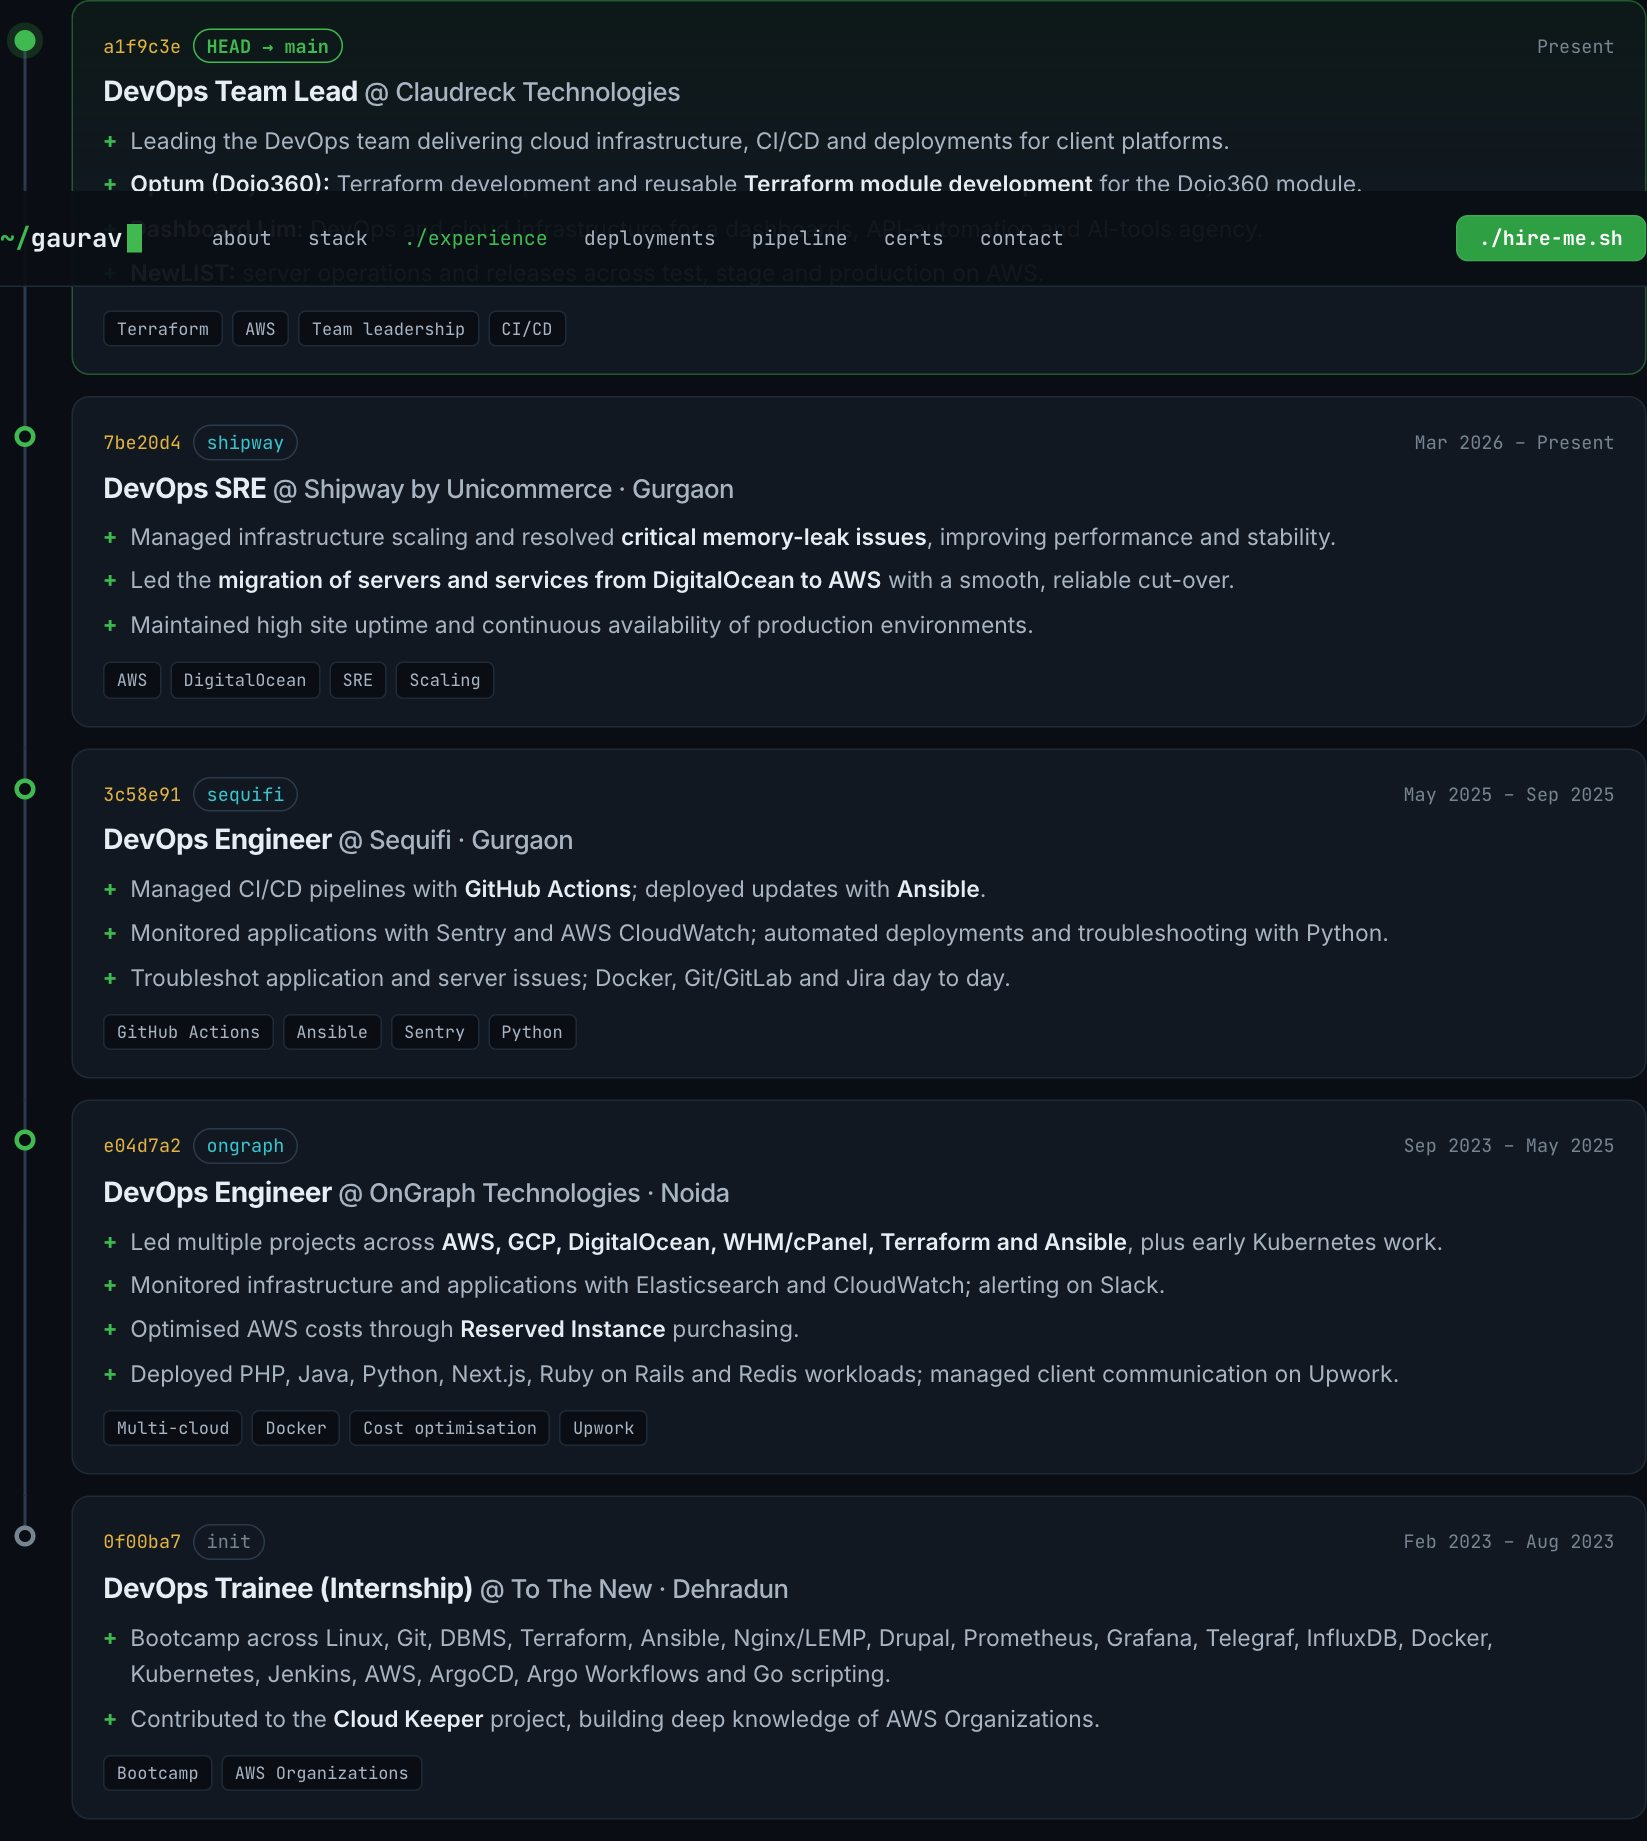
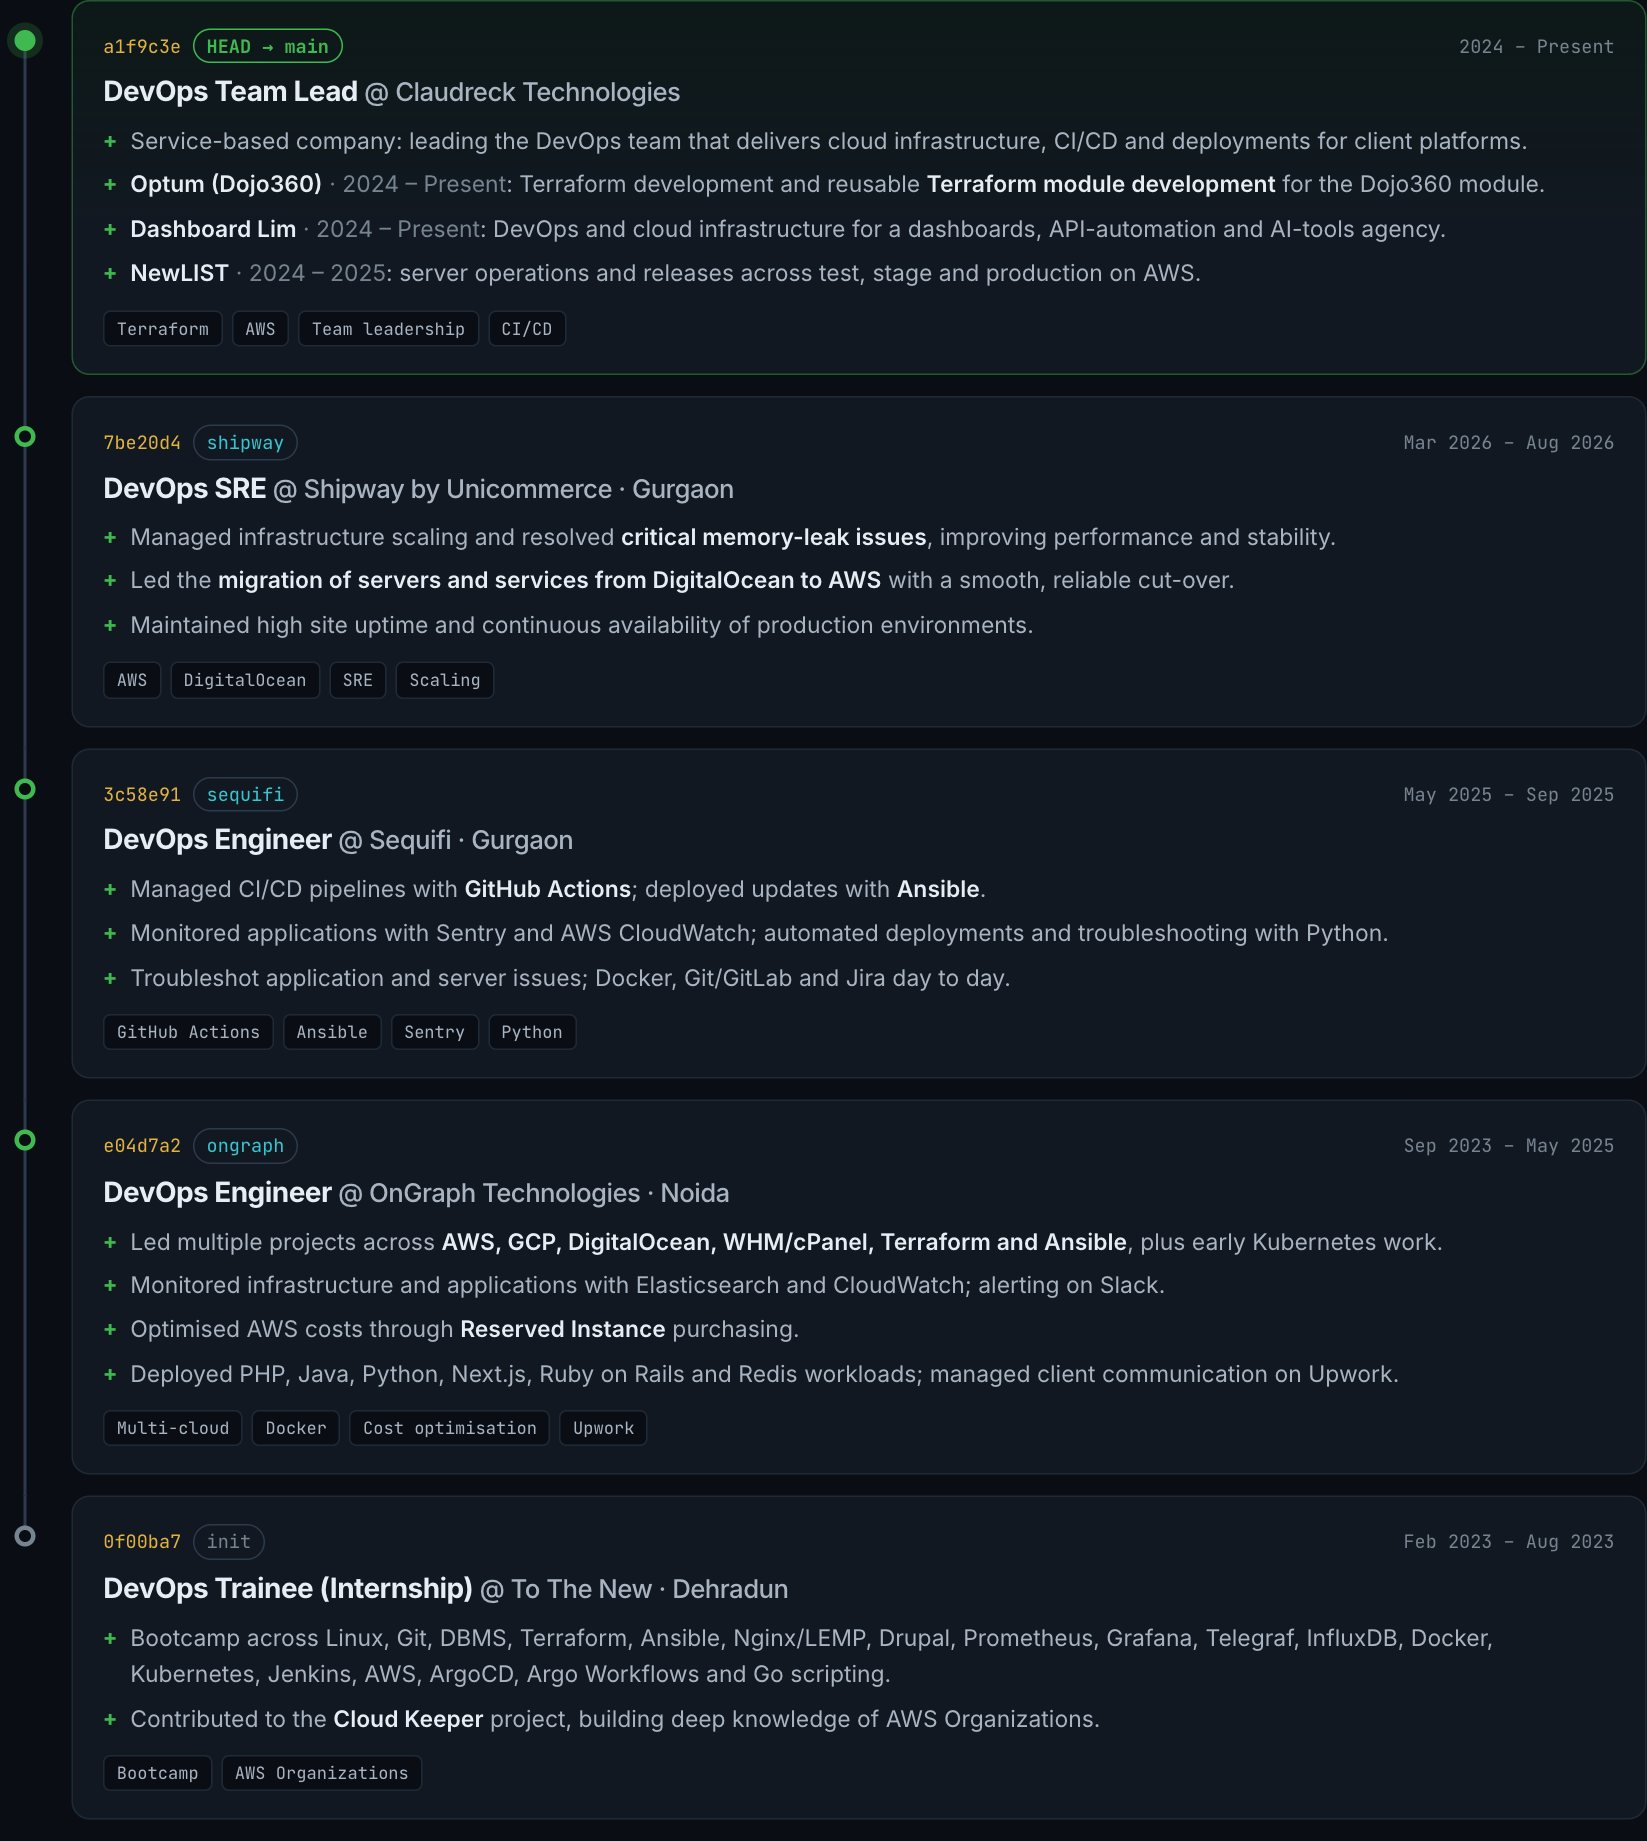
Update timeline: Shipway Mar-Aug 2026, Claudreck 2024-present
- Claudreck Technologies (service-based) 2024 - Present: Optum Dojo360
  and Dashboard Lim 2024 - Present, NewLIST 2024 - 2025
- Shipway by Unicommerce ends Aug 2026
- Terminal, deployment cards, README and screenshots updated

Changed region(s): [[0.0, 0.0619, 1.0, 0.1548], [0.929, 0.2167, 0.9599, 0.2477]]

diff --git a/index.html b/index.html
@@ -200,13 +200,13 @@
           <li class="commit commit--head reveal">
             <div class="commit__rail" aria-hidden="true"><span class="commit__dot"></span></div>
             <div class="commit__card">
-              <p class="commit__meta"><span class="sha">a1f9c3e</span> <span class="ref ref--head">HEAD → main</span> <span class="when">Present</span></p>
+              <p class="commit__meta"><span class="sha">a1f9c3e</span> <span class="ref ref--head">HEAD → main</span> <span class="when">2024 – Present</span></p>
               <h3>DevOps Team Lead <span class="at">@ Claudreck Technologies</span></h3>
               <ul>
-                <li>Leading the DevOps team delivering cloud infrastructure, CI/CD and deployments for client platforms.</li>
-                <li><strong>Optum (Dojo360):</strong> Terraform development and reusable <strong>Terraform module development</strong> for the Dojo360 module.</li>
-                <li><strong>Dashboard Lim:</strong> DevOps and cloud infrastructure for a dashboards, API-automation and AI-tools agency.</li>
-                <li><strong>NewLIST:</strong> server operations and releases across test, stage and production on AWS.</li>
+                <li>Service-based company: leading the DevOps team that delivers cloud infrastructure, CI/CD and deployments for client platforms.</li>
+                <li><strong>Optum (Dojo360)</strong> <span class="dim">· 2024 – Present</span>: Terraform development and reusable <strong>Terraform module development</strong> for the Dojo360 module.</li>
+                <li><strong>Dashboard Lim</strong> <span class="dim">· 2024 – Present</span>: DevOps and cloud infrastructure for a dashboards, API-automation and AI-tools agency.</li>
+                <li><strong>NewLIST</strong> <span class="dim">· 2024 – 2025</span>: server operations and releases across test, stage and production on AWS.</li>
               </ul>
               <p class="tags"><span>Terraform</span><span>AWS</span><span>Team leadership</span><span>CI/CD</span></p>
             </div>
@@ -214,7 +214,7 @@
           <li class="commit reveal">
             <div class="commit__rail" aria-hidden="true"><span class="commit__dot"></span></div>
             <div class="commit__card">
-              <p class="commit__meta"><span class="sha">7be20d4</span> <span class="ref">shipway</span> <span class="when">Mar 2026 – Present</span></p>
+              <p class="commit__meta"><span class="sha">7be20d4</span> <span class="ref">shipway</span> <span class="when">Mar 2026 – Aug 2026</span></p>
               <h3>DevOps SRE <span class="at">@ Shipway by Unicommerce · Gurgaon</span></h3>
               <ul>
                 <li>Managed infrastructure scaling and resolved <strong>critical memory-leak issues</strong>, improving performance and stability.</li>
@@ -300,16 +300,16 @@ modules/
 └── <span class="k">guardrails</span>/          <span class="c"># policies &amp; defaults</span>
 <span class="p">$</span> terraform plan <span class="ok">✓ no drift</span></code></pre>
             <p class="tags"><span>Terraform</span><span>Modules</span><span>IaC</span><span>Cloud governance</span></p>
-            <p class="dep__via">via Claudreck Technologies</p>
+            <p class="dep__via">via Claudreck Technologies · 2024 – Present</p>
           </article>
 
           <article class="dep reveal" data-tags="aws">
-            <header class="dep__head"><span class="pill pill--ok">● Running</span><span class="dep__ns">ns/newlist</span></header>
+            <header class="dep__head"><span class="pill pill--done">✓ Delivered</span><span class="dep__ns">ns/newlist</span></header>
             <h3>NewLIST</h3>
             <p class="dep__link"><a href="http://www.newlist.com" target="_blank" rel="noopener">newlist.com ↗</a></p>
             <p>Server operations and deployments across <strong>test, stage and production</strong>. Rolled out <strong>Amazon Inspector</strong> and fixed critical findings, and enabled CloudWatch monitoring on every environment.</p>
             <p class="tags"><span>Elastic Beanstalk</span><span>CodePipeline</span><span>WAF</span><span>CloudFront</span><span>RDS</span><span>Inspector</span></p>
-            <p class="dep__via">via Claudreck Technologies</p>
+            <p class="dep__via">via Claudreck Technologies · 2024 – 2025</p>
           </article>
 
           <article class="dep reveal" data-tags="aws">
@@ -318,7 +318,7 @@ modules/
             <p class="dep__link"><a href="https://dashboard-lim.com" target="_blank" rel="noopener">dashboard-lim.com ↗</a></p>
             <p>DevOps and cloud infrastructure for a boutique agency that builds <strong>business dashboards, API automations and AI tools</strong> for agencies and service brands.</p>
             <p class="tags"><span>Cloud infra</span><span>Deployments</span><span>Automation</span></p>
-            <p class="dep__via">via Claudreck Technologies</p>
+            <p class="dep__via">via Claudreck Technologies · 2024 – Present</p>
           </article>
 
           <article class="dep reveal" data-tags="migration aws">
@@ -327,6 +327,7 @@ modules/
             <p class="dep__link">Shipway by Unicommerce</p>
             <p>Led the move of servers and services from <strong>DigitalOcean to AWS</strong>, scaled infrastructure and resolved critical <strong>memory leaks</strong> to keep production stable during and after the move.</p>
             <p class="tags"><span>Migration</span><span>AWS</span><span>Scaling</span><span>SRE</span></p>
+            <p class="dep__via">Shipway by Unicommerce · Mar – Aug 2026</p>
           </article>
 
           <article class="dep reveal" data-tags="iac aws containers">

diff --git a/assets/js/main.js b/assets/js/main.js
@@ -114,8 +114,8 @@
       [['Rudrapur, Uttarakhand, India', 't-m']],
     ],
     experience: () => [
-      [['* ', 't-g'], ['a1f9c3e ', 't-y'], ['(HEAD → main) ', 't-g'], ['DevOps Team Lead @ Claudreck Technologies ', ''], ['Present', 't-m']],
-      [['* ', 't-g'], ['7be20d4 ', 't-y'], ['DevOps SRE @ Shipway by Unicommerce ', ''], ['Mar 2026 – Present', 't-m']],
+      [['* ', 't-g'], ['a1f9c3e ', 't-y'], ['(HEAD → main) ', 't-g'], ['DevOps Team Lead @ Claudreck Technologies ', ''], ['2024 – Present', 't-m']],
+      [['* ', 't-g'], ['7be20d4 ', 't-y'], ['DevOps SRE @ Shipway by Unicommerce ', ''], ['Mar 2026 – Aug 2026', 't-m']],
       [['* ', 't-g'], ['3c58e91 ', 't-y'], ['DevOps Engineer @ Sequifi ', ''], ['May 2025 – Sep 2025', 't-m']],
       [['* ', 't-g'], ['e04d7a2 ', 't-y'], ['DevOps Engineer @ OnGraph Technologies ', ''], ['Sep 2023 – May 2025', 't-m']],
       [['* ', 't-g'], ['0f00ba7 ', 't-y'], ['(init) ', 't-m'], ['DevOps Trainee @ To The New ', ''], ['Feb 2023 – Aug 2023', 't-m']],
@@ -123,7 +123,7 @@
     projects: () => [
       [['', 'nw'], ['NAMESPACE      NAME                 STATUS', 't-m']],
       [['', 'nw'], ['optum          ', 't-k'], ['dojo360-terraform    '], ['Running', 't-g']],
-      [['', 'nw'], ['newlist        ', 't-k'], ['aws-platform         '], ['Running', 't-g']],
+      [['', 'nw'], ['newlist        ', 't-k'], ['aws-platform         '], ['Delivered', 't-k']],
       [['', 'nw'], ['dashboard-lim  ', 't-k'], ['cloud-infra          '], ['Running', 't-g']],
       [['', 'nw'], ['shipway        ', 't-k'], ['do-to-aws-migration  '], ['Migrated', 't-g']],
       [['', 'nw'], ['quantum-bank   ', 't-k'], ['k8s-gitops-fixes     '], ['Healthy', 't-g']],

diff --git a/README.md b/README.md
@@ -53,10 +53,10 @@ strengths: [cloud migrations, cost optimisation, security remediation, client co
 
 | | Project | What I did | Stack |
 |---|---|---|---|
-| 🟣 | **[Optum](https://www.optum.com) · Dojo360** | Terraform development and **reusable Terraform module development** for the Dojo360 module, part of Optum's public-cloud enablement (account bootstrap and networking) | Terraform · IaC modules |
-| 🟢 | **[NewLIST](http://www.newlist.com)** | Server operations and releases across test, stage and prod. Rolled out **Amazon Inspector** and fixed critical findings, and enabled CloudWatch on every environment | Elastic Beanstalk · CodePipeline · WAF · CloudFront · RDS |
-| 🟢 | **[Dashboard Lim](https://dashboard-lim.com)** | DevOps and cloud infrastructure for a boutique agency building business dashboards, API automations and AI tools | Cloud infra · Deployments · Automation |
-| 🔵 | **DigitalOcean → AWS migration** · Shipway | Led the migration of servers and services, scaled infrastructure and fixed critical **memory leaks** | AWS · DigitalOcean · SRE |
+| 🟣 | **[Optum](https://www.optum.com) · Dojo360**<br/><sub>2024 – Present</sub> | Terraform development and **reusable Terraform module development** for the Dojo360 module, part of Optum's public-cloud enablement (account bootstrap and networking) | Terraform · IaC modules |
+| ✅ | **[NewLIST](http://www.newlist.com)**<br/><sub>2024 – 2025</sub> | Server operations and releases across test, stage and prod. Rolled out **Amazon Inspector** and fixed critical findings, and enabled CloudWatch on every environment | Elastic Beanstalk · CodePipeline · WAF · CloudFront · RDS |
+| 🟢 | **[Dashboard Lim](https://dashboard-lim.com)**<br/><sub>2024 – Present</sub> | DevOps and cloud infrastructure for a boutique agency building business dashboards, API automations and AI tools | Cloud infra · Deployments · Automation |
+| 🔵 | **DigitalOcean → AWS migration** · Shipway<br/><sub>Mar – Aug 2026</sub> | Led the migration of servers and services, scaled infrastructure and fixed critical **memory leaks** | AWS · DigitalOcean · SRE |
 | 🟢 | **Westminiter** | ECR → ECS deploys with **lazy loading for a 4 GB image**. Terraform for EC2, IAM, S3, ECS, ECR, SQS, alarms, Bedrock and RDS, plus the Docker provider for image builds | Terraform · Docker · ECS · Bedrock |
 | ⭐ | **Quantum Bank World** (Upwork) | Fixed and deployed manifests on DigitalOcean with GitOps auto-updates. **5-star client rating** | Containers · GitOps |
 | ✅ | **Cloud Keeper** · To The New | Contributed during my internship and learned AWS Organizations in depth | AWS Organizations |
@@ -68,8 +68,8 @@ strengths: [cloud migrations, cost optimisation, security remediation, client co
 ## 🧭 Career: `git log --oneline`
 
 ```text
-* a1f9c3e (HEAD → main) DevOps Team Lead      @ Claudreck Technologies   Present
-* 7be20d4               DevOps SRE            @ Shipway by Unicommerce   Mar 2026 – Present
+* a1f9c3e (HEAD → main) DevOps Team Lead      @ Claudreck Technologies   2024 – Present
+* 7be20d4               DevOps SRE            @ Shipway by Unicommerce   Mar 2026 – Aug 2026
 * 3c58e91               DevOps Engineer       @ Sequifi                  May 2025 – Sep 2025
 * e04d7a2               DevOps Engineer       @ OnGraph Technologies     Sep 2023 – May 2025
 * 0f00ba7 (init)        DevOps Trainee        @ To The New               Feb 2023 – Aug 2023
@@ -78,7 +78,7 @@ strengths: [cloud migrations, cost optimisation, security remediation, client co
 <details>
 <summary><b>Highlights per role</b></summary>
 
-- **Claudreck Technologies:** leading the DevOps team. Terraform modules for Optum Dojo360; platforms for NewLIST and Dashboard Lim.
+- **Claudreck Technologies** (service-based, 2024 – Present): leading the DevOps team. Optum Dojo360 Terraform modules (2024 – Present), Dashboard Lim (2024 – Present) and NewLIST (2024 – 2025).
 - **Shipway by Unicommerce:** DigitalOcean → AWS migration, scaling, memory-leak fixes and high uptime.
 - **Sequifi:** GitHub Actions CI/CD, Ansible deploys, Sentry/CloudWatch monitoring and Python automation.
 - **OnGraph:** multi-cloud projects (AWS, GCP, DO, cPanel), Reserved Instance cost savings, Slack alerting and Upwork client management.
